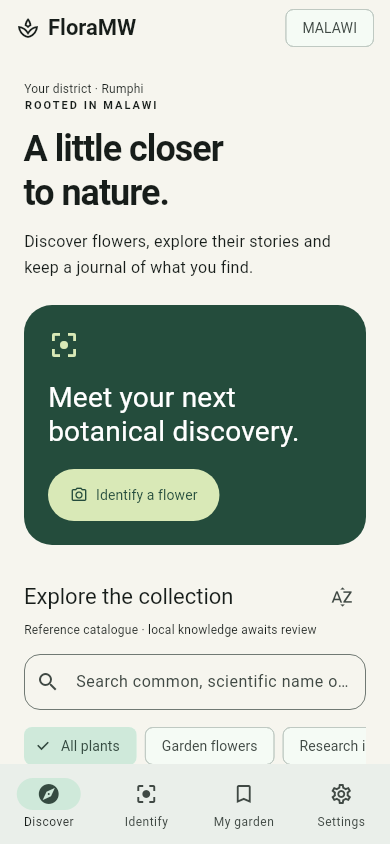
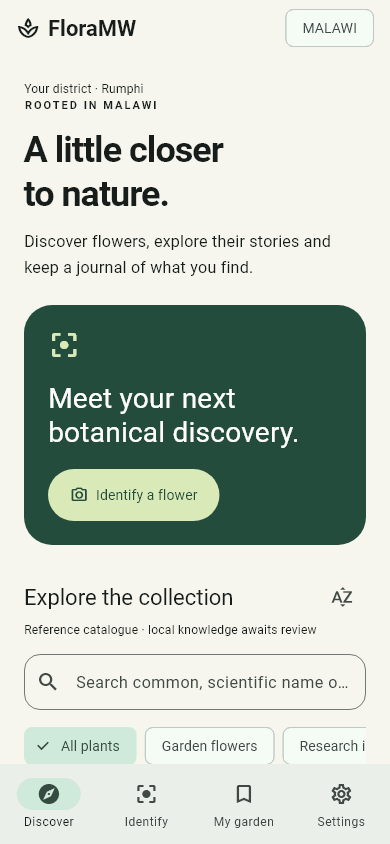
Fix Flutter screenshot regression tests

diff --git a/test/screenshots_test.dart b/test/screenshots_test.dart
@@ -1,18 +1,86 @@
+import 'dart:convert';
+
 import 'package:flutter/material.dart';
 import 'package:flutter_test/flutter_test.dart';
+import 'package:http/http.dart' as http;
+import 'package:http/testing.dart';
 import 'package:shared_preferences/shared_preferences.dart';
 import 'package:floramw/main.dart';
+import 'package:floramw/models.dart';
+import 'package:floramw/services/api_client.dart';
+import 'package:floramw/services/sync_service.dart';
 import 'package:floramw/store.dart';
 import 'layout_test.dart' show loadFonts;
+
+/// Minimal HTTP stub for golden screenshot tests.
+///
+/// Returns synthetic but deterministic API responses so that [DiscoverScreen]
+/// always loads the full catalogue without hitting a real server or showing
+/// the offline-notice banner. Every screenshot is therefore pixel-stable.
+http.Client _screenshotMockClient() {
+  final plantsJson = plants
+      .map(
+        (p) => {
+          'id': p.id,
+          'name': p.name,
+          'scientific': p.scientific,
+          'family': p.family,
+          'category': p.category,
+          'symbol': p.symbol,
+          'description': p.description,
+        },
+      )
+      .toList();
+
+  return MockClient((request) async {
+    // Token bootstrap
+    if (request.url.path == '/api/v1/auth/anonymous' &&
+        request.method == 'POST') {
+      return http.Response(
+        jsonEncode({
+          'device_token': 'screenshot-test-token',
+          'token_type': 'bearer',
+          'role': 'guest',
+          'is_anonymous': true,
+        }),
+        201,
+        headers: {'content-type': 'application/json'},
+      );
+    }
+    // Flower catalogue
+    if (request.url.path == '/api/v1/flowers' && request.method == 'GET') {
+      return http.Response(
+        jsonEncode({
+          'items': plantsJson,
+          'total': plantsJson.length,
+          'page': 1,
+          'pages': 1,
+        }),
+        200,
+        headers: {'content-type': 'application/json'},
+      );
+    }
+    return http.Response('Not found', 404);
+  });
+}
 
 void main() {
   TestWidgetsFlutterBinding.ensureInitialized();
   setUpAll(loadFonts);
+
   Future<AppStore> prepare(WidgetTester tester) async {
     await tester.binding.setSurfaceSize(const Size(390, 844));
     addTearDown(() => tester.binding.setSurfaceSize(null));
     SharedPreferences.setMockInitialValues({'onboarding': true});
-    final s = AppStore(await SharedPreferences.getInstance());
+    final prefs = await SharedPreferences.getInstance();
+    final mockClient = _screenshotMockClient();
+    final apiClient = FloraApiClient(
+      httpClient: mockClient,
+      baseUrl: 'http://127.0.0.1:8000',
+      prefs: prefs,
+    );
+    final syncService = SyncService(client: apiClient, prefs: prefs);
+    final s = AppStore(prefs, syncService: syncService);
     s.district = 'Rumphi';
     return s;
   }
@@ -26,6 +94,7 @@ void main() {
       matchesGoldenFile('../docs/screenshots/discover.png'),
     );
   });
+
   testWidgets('Identify reference screenshot', (tester) async {
     final s = await prepare(tester);
     await tester.pumpWidget(FloraMWApp(store: s));
@@ -37,6 +106,7 @@ void main() {
       matchesGoldenFile('../docs/screenshots/identify.png'),
     );
   });
+
   testWidgets('Plant profile reference screenshot', (tester) async {
     final s = await prepare(tester);
     await tester.pumpWidget(FloraMWApp(store: s));
@@ -47,6 +117,14 @@ void main() {
       scrollable: find.byType(Scrollable).first,
     );
     await tester.tap(find.text('Chinese hibiscus'));
+    await tester.pumpAndSettle();
+    await tester.runAsync(() async {
+      final element = tester.element(find.byType(Scaffold).first);
+      await precacheImage(
+        const AssetImage('assets/plants/hibiscus.jpg'),
+        element,
+      );
+    });
     await tester.pumpAndSettle();
     await expectLater(
       find.byType(Scaffold).first,
